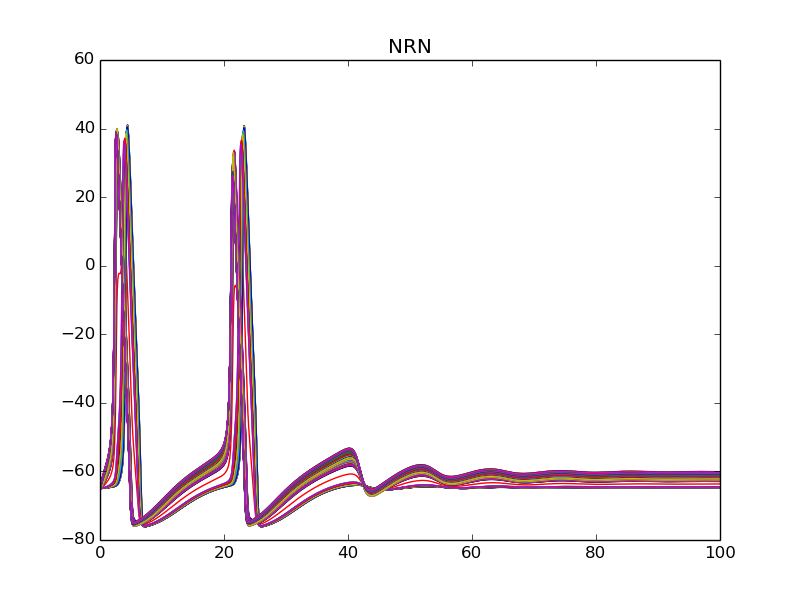
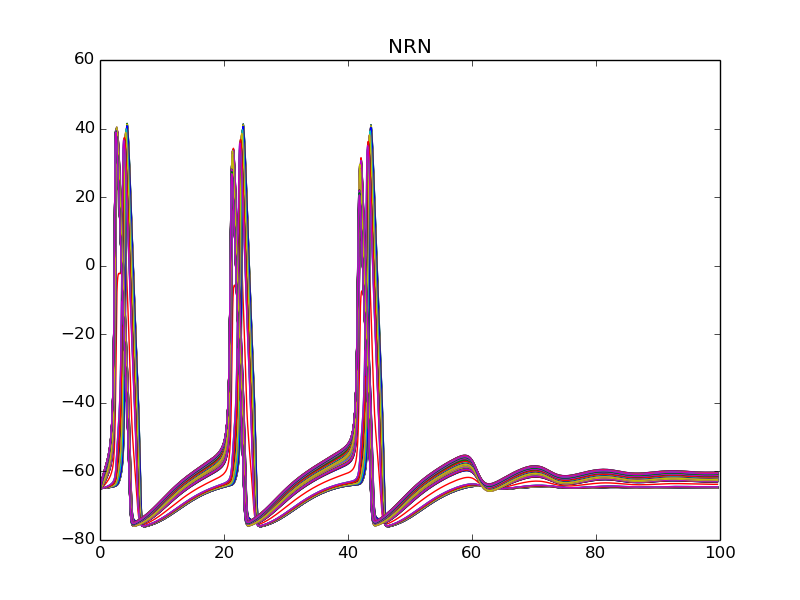
This works with cvode active.

Changed region(s): [[0.125, 0.21, 0.9062, 0.9]]

diff --git a/moose_nrn_equivalence_testing/comparision_with_simple_HH_model/moose_to_neuron.py b/moose_nrn_equivalence_testing/comparision_with_simple_HH_model/moose_to_neuron.py
@@ -131,7 +131,7 @@ def stimulus_text():
     mu.info(" Default sim time is 0.1 second. Change it in script.")
     stimtext.append('dt=%s' % plot_dt_)
     stimtext.append('tstop=%s' % 100)
-    #stimtext.append('cvode.active(1)')
+    stimtext.append('cvode.active(1)')
     stimtext.append('finitialize()')
     stimtext.append('run()')
     stimtext.append("\n")
